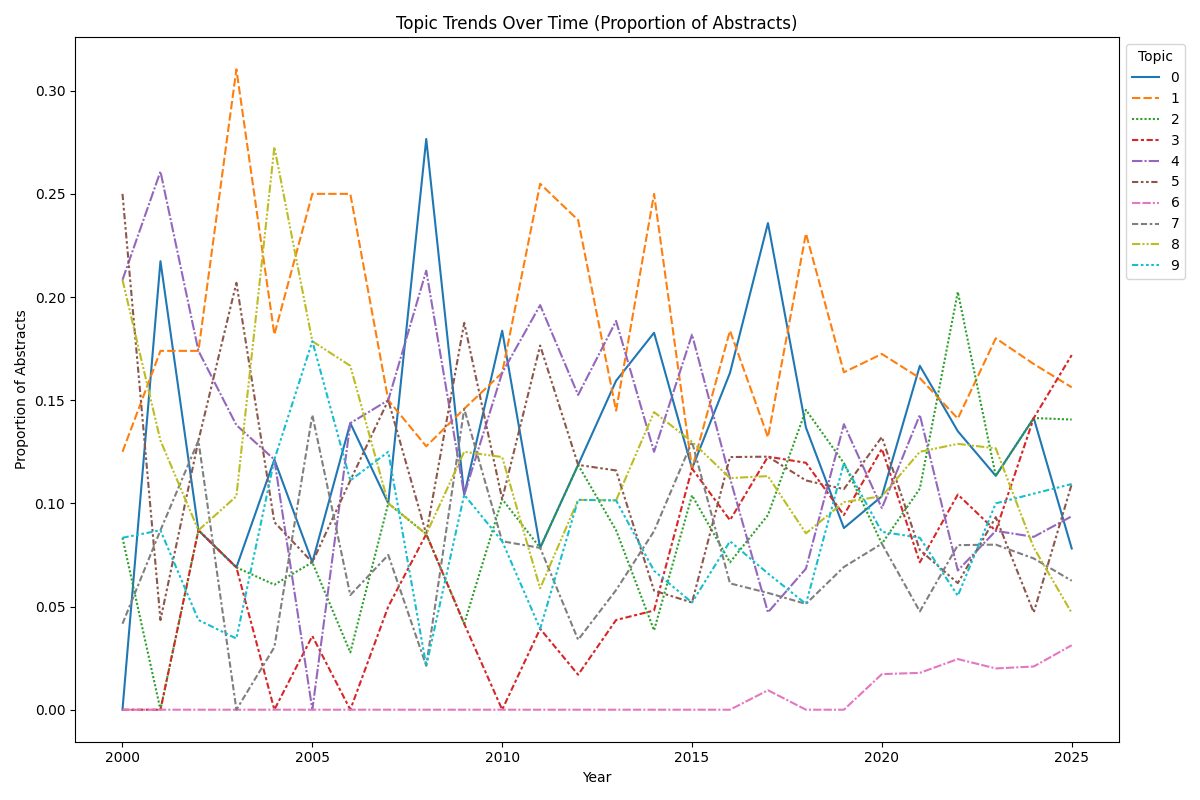
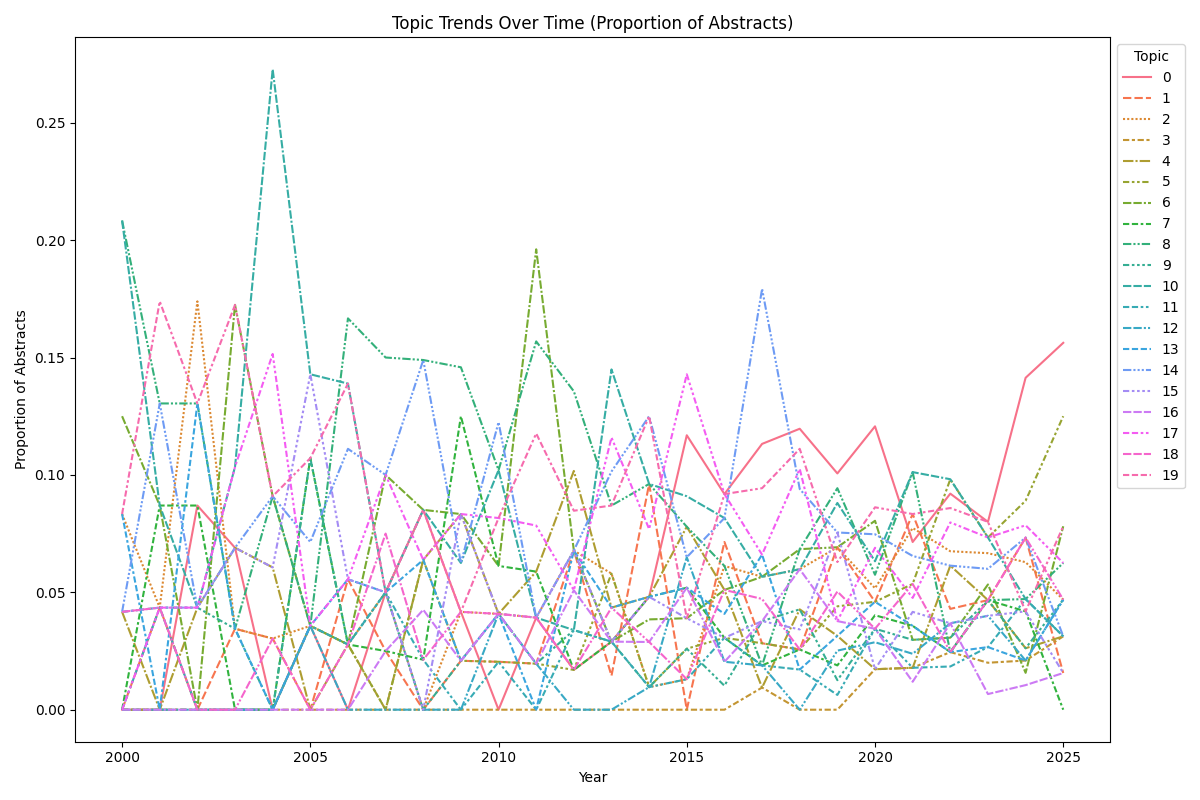
Added abstract summarization with GPT model

diff --git a/trend_analysis_with_bert.py b/trend_analysis_with_bert.py
@@ -5,9 +5,18 @@ from sentence_transformers import SentenceTransformer
 import matplotlib.pyplot as plt
 import seaborn as sns
 from sklearn.feature_extraction.text import TfidfVectorizer
+from transformers import pipeline
+from local_bart_summarizer import PegasusSummarizer
+
+# Load summarizer model (small, local-friendly)
+summarizer = PegasusSummarizer()
 
 
-def analyze_trends_with_bert(df, num_clusters=10, output_plot_path="bert_topic_trends.png"):
+def analyze_trends_with_bert(df, num_clusters=20, output_plot_path="bert_topic_trends.png"):
+    """
+    Clusters abstracts into topics using sentence-BERT embeddings and KMeans,
+    plots topic trends over years, and adds a 'topic' column to df.
+    """
     df = df.dropna(subset=["abstract", "year"]).copy()
 
     if df.empty:
@@ -41,12 +50,19 @@ def analyze_trends_with_bert(df, num_clusters=10, output_plot_path="bert_topic_t
     return df
 
 
-def get_top_keywords_per_topic(df, num_keywords=5):
+def get_top_keywords_per_topic(df, num_keywords=10):
+    """
+    Extracts top keywords per topic using TF-IDF on abstracts.
+    Returns dict {topic_id: [keyword1, keyword2, ...]}
+    """
     vectorizer = TfidfVectorizer(stop_words='english')
     keywords = {}
 
     for topic_num in sorted(df['topic'].unique()):
         abstracts = df[df['topic'] == topic_num]['abstract']
+        if abstracts.empty:
+            keywords[topic_num] = []
+            continue
         tfidf_matrix = vectorizer.fit_transform(abstracts)
         mean_tfidf = tfidf_matrix.mean(axis=0).A1  # average TF-IDF per term
 
@@ -59,8 +75,9 @@ def get_top_keywords_per_topic(df, num_keywords=5):
 
 
 def show_topic_trend_table(topic_labels, years):
-    import numpy as np  # make sure np is imported
-
+    """
+    Prints tables of topic counts and proportions per year.
+    """
     topic_labels = np.array(topic_labels).ravel()
     years = np.array(years).ravel()
 
@@ -82,3 +99,19 @@ def show_topic_trend_table(topic_labels, years):
     print(trend_props)
 
     return trend_table
+
+
+def summarize_cluster_abstracts(df, cluster_id, summarizer, max_abstracts=50):
+    cluster_df = df[df['topic'] == cluster_id]
+    sampled_abstracts = cluster_df['abstract'].dropna().sample(
+        n=min(len(cluster_df), max_abstracts), random_state=42
+    ).tolist()
+
+    combined_text = " ".join(sampled_abstracts)
+    prompt = f"Summarize the following abstracts from topic cluster {cluster_id}: {combined_text}"
+    summary = summarizer.generate_summary(prompt)
+    return summary
+
+
+
+

diff --git a/keyword_trends.py b/keyword_trends.py
@@ -1,0 +1,50 @@
+import matplotlib.pyplot as plt
+import pandas as pd
+pd.set_option('display.max_columns', None)
+
+
+
+def keyword_trend_analysis(df, year_col, text_col, keywords):
+    years = sorted(df[year_col].dropna().unique())
+    counts = {kw: [] for kw in keywords}
+
+    for year in years:
+        texts = df[df[year_col] == year][text_col].dropna().str.lower()
+        for kw in keywords:
+            count = texts.str.contains(kw.lower()).sum()
+            counts[kw].append(count)
+
+    trend_df = pd.DataFrame(counts, index=years)
+    trend_df.index.name = 'Year'
+    return trend_df
+
+def run(df, year_col='year', text_col='abstract', keywords=None):
+    if keywords is None:
+        keywords = [
+            "wittgenstein", "heidegger", "postmodernism", "deconstruction", "heisenberg", "uncertainty",
+            "knowledge", "belief", "justification", "truth", "evidence", "rationality", "skepticism", "epistemology",
+            "coherentism", "foundationalism", "reliabilism", "internalism", "externalism", "virtue epistemology",
+            "testimony", "disagreement", "epistemic injustice", "social epistemology", "ignorance",
+            "epistemic agency", "epistemic oppression",
+            "Gettier", "Quine", "Goldman", "Alvin Plantinga", "Laurence BonJour", "Linda Zagzebski", "Miranda Fricker"
+        ]
+
+    trend_df = keyword_trend_analysis(df, year_col, text_col, keywords)
+    # Transpose the DataFrame so topics are rows and years are columns
+    pivot_df = trend_df.T  # Now topics are the index (rows)
+
+    # Add a total column for each topic (i.e., sum across years)
+    pivot_df['total'] = pivot_df.sum(axis=1)
+
+    # Filter to keep only topics with more than 10 total mentions
+    filtered_df = pivot_df[pivot_df['total'] > 10]
+
+    # (Optional) Sort by total mentions
+    filtered_df = filtered_df.sort_values(by='total', ascending=False)
+
+    #print(filtered_df)
+
+    print(filtered_df.to_csv())
+
+    # Optionally save it
+    trend_df.to_csv("output/keyword_trends.csv")

diff --git a/main.py b/main.py
@@ -7,9 +7,21 @@ from fetch_semanticscholar import fetch_semantic_scholar_papers
 from trend_analysis_with_bert import analyze_trends_with_bert
 from trend_analysis_with_bert import show_topic_trend_table
 from trend_analysis_with_bert import get_top_keywords_per_topic
+import trend_analysis_with_bert
+import keyword_trends
 
+pd.set_option('display.max_columns', None)
+
+
+from local_bart_summarizer import PegasusSummarizer, summarize_yearly_abstracts
+
+#
 JSONL_PATH = "data/philosophy_papers.jsonl"
 DF_PICKLE_PATH = "data/philosophy_papers.pkl"
+
+# Initialize summarizer
+summarizer = PegasusSummarizer()
+
 
 def main():
     # Step 1: Fetch if JSONL does not exist
@@ -30,16 +42,28 @@ def main():
         df.to_pickle(DF_PICKLE_PATH)
 
     # Run basic analysis (titles, years, etc.)
-    run_basic_analysis(df)
+    #run_basic_analysis(df)
 
     # Run advanced NLP on abstracts
-    run_advanced_nlp(df)
+    #run_advanced_nlp(df)
+
+    keyword_trends.run(df)
 
     # Run trends analysis with BERT
-    df_with_topics = analyze_trends_with_bert(df)
-    show_topic_trend_table(df_with_topics['topic'], df_with_topics['year'])
-    top_keywords = get_top_keywords_per_topic(df_with_topics)
-    print(top_keywords)
+    #df_with_topics = analyze_trends_with_bert(df)
+    #show_topic_trend_table(df_with_topics['topic'], df_with_topics['year'])
+    #top_keywords = get_top_keywords_per_topic(df_with_topics)
+    #print("\nTop keywords per topic:")
+    #print(top_keywords)
+
+    #for cluster_id in sorted(df_with_topics['topic'].unique()):
+    #    print(f"\nCluster {cluster_id} keywords: {top_keywords.get(cluster_id, [])}")
+    #    summary = trend_analysis_with_bert.summarize_cluster_abstracts(df_with_topics, cluster_id, summarizer)
+    #    print(f"Summary: {summary}")
+
+    #summaries = summarize_yearly_abstracts(df, summarizer)
+    #for year, summary in summaries.items():
+    #    print(f"Year {year} summary:\n{summary}\n")
 
 
 if __name__ == "__main__":

diff --git a/local_bart_summarizer.py b/local_bart_summarizer.py
@@ -1,0 +1,38 @@
+from transformers import PegasusTokenizer, PegasusForConditionalGeneration
+import torch
+
+class PegasusSummarizer:
+    def __init__(self, model_name='google/pegasus-xsum'):
+        self.tokenizer = PegasusTokenizer.from_pretrained(model_name)
+        self.model = PegasusForConditionalGeneration.from_pretrained(model_name)
+        self.device = torch.device('cuda' if torch.cuda.is_available() else 'cpu')
+        self.model.to(self.device)
+        self.model.eval()
+
+    def generate_summary(self, text, max_length=150):
+        inputs = self.tokenizer(text, truncation=True, padding='longest', return_tensors='pt').to(self.device)
+        summary_ids = self.model.generate(
+            inputs['input_ids'],
+            attention_mask=inputs['attention_mask'],
+            max_length=max_length,
+            num_beams=4,
+            early_stopping=True
+        )
+        summary = self.tokenizer.decode(summary_ids[0], skip_special_tokens=True)
+        return summary
+
+
+def summarize_yearly_abstracts(df, summarizer, abstracts_per_year=50):
+    yearly_summaries = {}
+    for year, group in df.groupby('year'):
+        sampled_abstracts = group['abstract'].sample(
+            n=min(len(group), abstracts_per_year), random_state=42
+        ).tolist()
+
+        clean_abstracts = [a for a in sampled_abstracts if isinstance(a, str) and a.strip()]
+        combined_text = " ".join(clean_abstracts)
+
+        prompt = f"Summarize the following scientific abstracts from the year {year}: {combined_text}"
+        summary = summarizer.generate_summary(prompt, max_length=150)
+        yearly_summaries[year] = summary
+    return yearly_summaries
